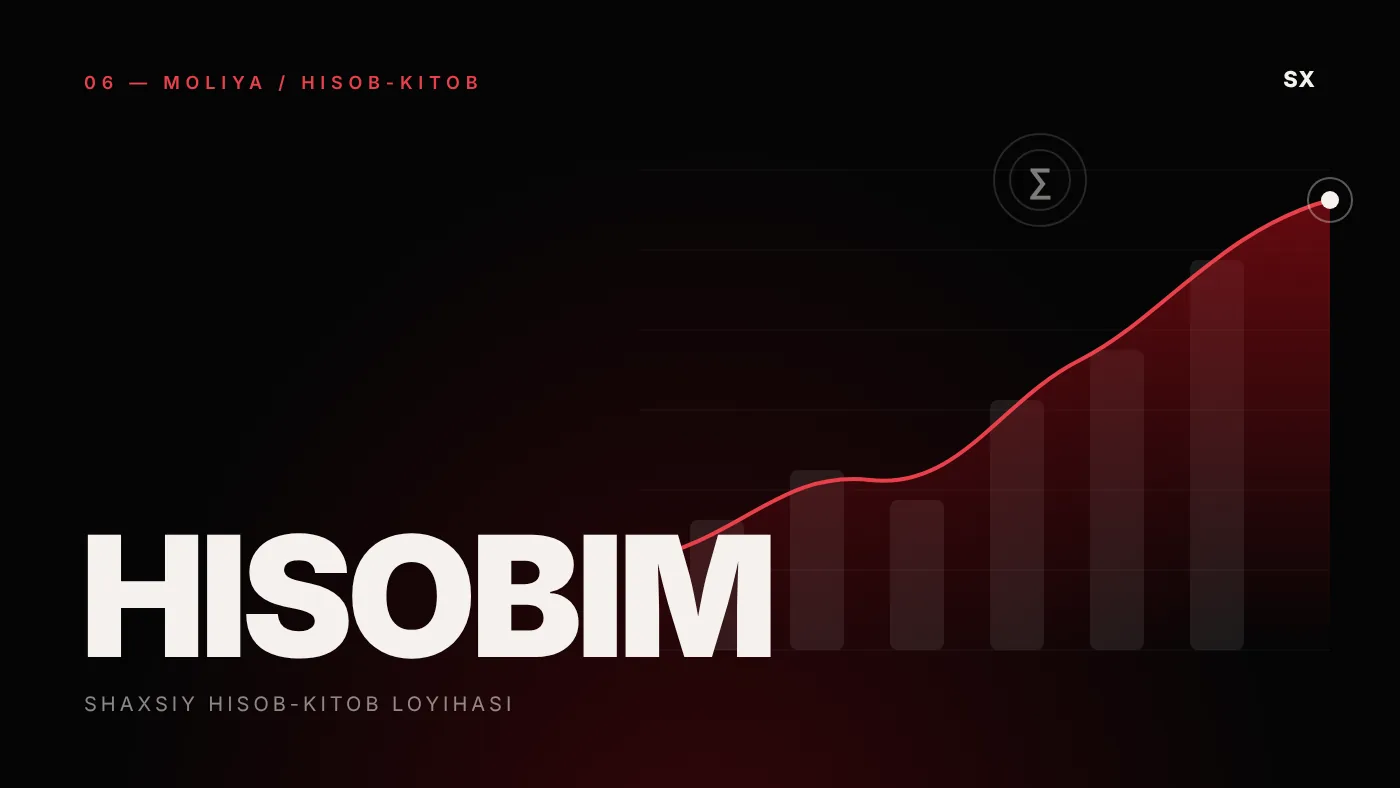
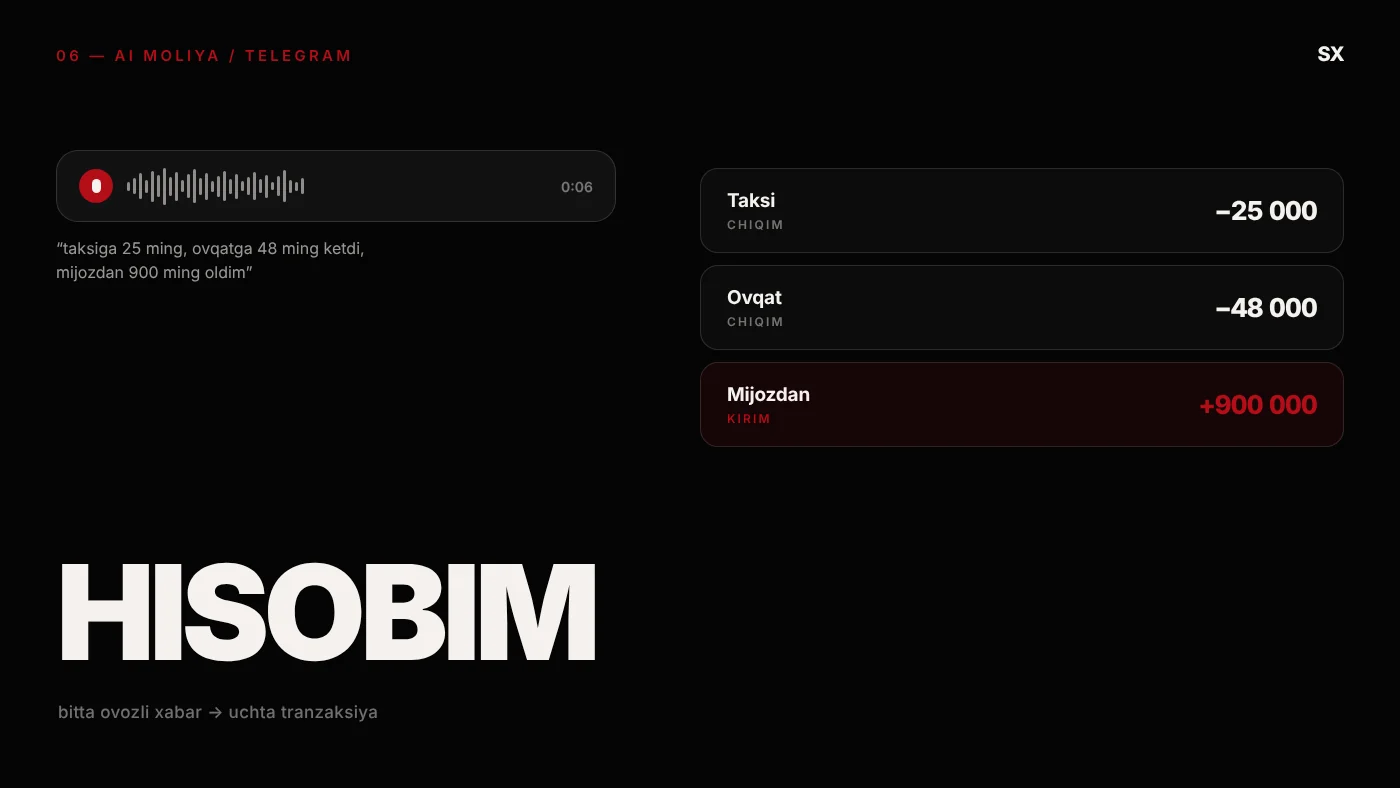
portfolio: replace HISOBIM and SAHNA STUDIO placeholders with real copy
Both entries landed as drafts written from the project names alone, with
a note that the owner still had to supply the facts. The facts were
already available: both projects have repositories.

Sourced from them instead:

- HISOBIM (xojasoipov-sketch/hisobim) is a voice-first Telegram
  accountant and Mini App, not a generic "personal accounting project".
  One Uzbek voice message splits into several transactions; the AI only
  structures the sentence while the backend and PostgreSQL do every sum,
  so UZS and USD never mix. Debts, natural-language corrections, an
  audit log, a PWA dashboard and the central bank rate. Bot handle added.

- SAHNA STUDIO (xojasoipov-sketch/Sahna-Chrome, manifest name "Sahna
  Studio - Flow Batch Assistant") is a Chrome MV3 side panel that runs a
  prompt queue against Google Flow -- not a creative studio. XLSX import,
  pause/resume, automatic retry of scenes that did not render, voice
  control, and the user's own OpenAI/Gemini/OpenRouter key with no
  intermediate server.

The banners were drawn from those same wrong premises -- a stock finance
chart captioned "shaxsiy hisob-kitob loyihasi", and a theatre stage with
curtains for a name that happens to mean "stage". Redrawn so each one
shows what the product actually does, and the generator is committed
this time rather than being a one-off.

Also adds both to the bot's knowledge base (both mirrors) and the CV,
which the first pass missed, so the assistant can answer about them.
[…]

diff --git a/src/data/projects.ts b/src/data/projects.ts
@@ -126,11 +126,22 @@ export const PROJECTS: Project[] = [
     id: "hisobim",
     index: "06",
     title: "HISOBIM",
-    category: "Moliya / Hisob-kitob",
-    summary: "Shaxsiy hisob-kitob loyihasi.",
+    category: "AI Moliya / Telegram",
+    summary:
+      "O'zbekcha ovozli xabarni tushunadigan Telegram buxgalter va Mini App.",
     detail:
-      "Hisob-kitobni tartibli yuritish uchun ishlab chiqilgan loyiha. Batafsil tavsif va texnologiyalar muallif tomonidan tasdiqlanadi.",
-    tech: [],
+      "\"Bugun taksiga 25 ming, ovqatga 48 ming ketdi, mijozdan 900 ming oldim\" — bitta ovozli xabardan uchta alohida tranzaksiya ajraladi. AI faqat gapni strukturaga soladi: balans, sof foyda va valyuta hisobini backend bilan PostgreSQL o'zi sanaydi, shuning uchun raqamda model xatosi bo'lmaydi va so'm bilan dollar aralashmaydi. Qarz berish va qaytarishni yuritadi, \"haligi benzin 85 emas, 65 ming edi\" deganda oxirgi mos yozuvni tuzatadi — har o'zgarish audit jurnaliga tushadi. Mini App va o'rnatiladigan PWA dashboard, Markaziy bank kursi, push-bildirishnoma bilan.",
+    tech: [
+      "TypeScript",
+      "Hono",
+      "grammY",
+      "Supabase PostgreSQL",
+      "React + Vite",
+      "Whisper STT",
+      "Zod",
+      "Railway",
+    ],
+    bot: "Hisobimaibot",
     shot: hisobimShot,
   },
   {
@@ -138,11 +149,19 @@ export const PROJECTS: Project[] = [
     index: "07",
     title: "SAHNA",
     titleAlt: "STUDIO",
-    category: "Studio / Kreativ loyiha",
-    summary: "Sahna va vizual kontent yaratish uchun studiya loyihasi.",
+    category: "Chrome kengaytma / AI video",
+    summary:
+      "Google Flow uchun yon panel — sahnalar bittalab emas, navbat bilan ketadi.",
     detail:
-      "Studiya loyihasi sifatida ishlab chiqilgan. Batafsil tavsif, texnologiyalar va havola muallif tomonidan tasdiqlanadi.",
-    tech: [],
+      "Flow'da har bir promptni qo'lda yuborib o'tirish o'rniga, ularni ro'yxatga yig'asiz yoki XLSX'dan import qilasiz va navbatni qo'yib yuborasiz: to'xtatish, davom ettirish, chiqmagan sahnani avtomatik qayta yuborish bor. Yonida prompt ustaxonasi, media galereya, tezkor montaj va ovoz bilan boshqaruv. AI uchun o'zingizning OpenAI, Gemini yoki OpenRouter kalitingiz ulanadi — promptlar qurilmada qoladi, oraliq server yo'q.",
+    tech: [
+      "Chrome MV3",
+      "Side Panel API",
+      "JavaScript",
+      "Service Worker",
+      "Web Speech API",
+      "SheetJS",
+    ],
     shot: sahnaStudioShot,
   },
 ];

diff --git a/bot/src/ai/knowledgeData.ts b/bot/src/ai/knowledgeData.ts
@@ -59,6 +59,22 @@ export const PROJECTS = [
     detail: "Katalog, qidiruv, narx oralig'i va saralash filtrlari; JWT autentifikatsiya, ko'p tilli interfeys va admin dashboard.",
     tech: ["React", "FastAPI", "MongoDB", "Telegram Mini App", "JWT", "i18n"],
   },
+  {
+    key: "hisobim",
+    title: "Hisobim",
+    category: "AI Moliya / Telegram",
+    summary: "O'zbekcha ovozli xabarni tushunadigan Telegram buxgalter va Mini App.",
+    detail: "Bitta ovozli xabardan bir nechta tranzaksiya ajraladi. AI faqat gapni strukturaga soladi; balans, sof foyda va valyuta hisobini backend bilan PostgreSQL deterministik sanaydi, so'm bilan dollar aralashmaydi. Qarz berish-qaytarish, tabiiy tilda tuzatish va audit jurnali bor. Mini App va PWA dashboard, Markaziy bank kursi, push-bildirishnoma. Bot: @Hisobimaibot",
+    tech: ["TypeScript", "Hono", "grammY", "Supabase PostgreSQL", "React", "Whisper STT", "Railway"],
+  },
+  {
+    key: "sahna-studio",
+    title: "Sahna Studio",
+    category: "Chrome kengaytma / AI video",
+    summary: "Google Flow uchun yon panel — sahnalar navbat bilan yaratiladi.",
+    detail: "Promptlarni ro'yxatga yig'ib yoki XLSX'dan import qilib navbatga qo'yadi: to'xtatish, davom ettirish, chiqmagan sahnani avtomatik qayta yuborish. Prompt ustaxonasi, media galereya, tezkor montaj va ovoz bilan boshqaruv. AI uchun foydalanuvchining o'z OpenAI, Gemini yoki OpenRouter kaliti ulanadi; promptlar qurilmada qoladi, oraliq server yo'q.",
+    tech: ["Chrome MV3", "Side Panel API", "JavaScript", "Service Worker", "Web Speech API", "SheetJS"],
+  },
 ] as const;
 
 export const CONTACT = {

diff --git a/supabase/functions/xojasoipov-bot/ai/knowledgeData.ts b/supabase/functions/xojasoipov-bot/ai/knowledgeData.ts
@@ -59,6 +59,22 @@ export const PROJECTS = [
     detail: "Katalog, qidiruv, narx oralig'i va saralash filtrlari; JWT autentifikatsiya, ko'p tilli interfeys va admin dashboard.",
     tech: ["React", "FastAPI", "MongoDB", "Telegram Mini App", "JWT", "i18n"],
   },
+  {
+    key: "hisobim",
+    title: "Hisobim",
+    category: "AI Moliya / Telegram",
+    summary: "O'zbekcha ovozli xabarni tushunadigan Telegram buxgalter va Mini App.",
+    detail: "Bitta ovozli xabardan bir nechta tranzaksiya ajraladi. AI faqat gapni strukturaga soladi; balans, sof foyda va valyuta hisobini backend bilan PostgreSQL deterministik sanaydi, so'm bilan dollar aralashmaydi. Qarz berish-qaytarish, tabiiy tilda tuzatish va audit jurnali bor. Mini App va PWA dashboard, Markaziy bank kursi, push-bildirishnoma. Bot: @Hisobimaibot",
+    tech: ["TypeScript", "Hono", "grammY", "Supabase PostgreSQL", "React", "Whisper STT", "Railway"],
+  },
+  {
+    key: "sahna-studio",
+    title: "Sahna Studio",
+    category: "Chrome kengaytma / AI video",
+    summary: "Google Flow uchun yon panel — sahnalar navbat bilan yaratiladi.",
+    detail: "Promptlarni ro'yxatga yig'ib yoki XLSX'dan import qilib navbatga qo'yadi: to'xtatish, davom ettirish, chiqmagan sahnani avtomatik qayta yuborish. Prompt ustaxonasi, media galereya, tezkor montaj va ovoz bilan boshqaruv. AI uchun foydalanuvchining o'z OpenAI, Gemini yoki OpenRouter kaliti ulanadi; promptlar qurilmada qoladi, oraliq server yo'q.",
+    tech: ["Chrome MV3", "Side Panel API", "JavaScript", "Service Worker", "Web Speech API", "SheetJS"],
+  },
 ] as const;
 
 export const CONTACT = {

diff --git a/src/data/cv.ts b/src/data/cv.ts
@@ -127,6 +127,35 @@ export const CV_PROJECTS: CvProject[] = [
     // portfolio's work section instead.
     link: "portfolio saytidagi jonli demo",
   },
+  {
+    title: "Hisobim",
+    category: "AI Moliya / Telegram",
+    summary:
+      "O'zbekcha ovozli xabardan tranzaksiyalarni ajratib oluvchi Telegram buxgalter va Mini App. AI faqat gapni strukturaga soladi; balans, foyda va valyuta hisobini backend bilan PostgreSQL deterministik sanaydi. Qarzlar, tabiiy tilda tuzatish va audit jurnali bilan.",
+    tech: [
+      "TypeScript",
+      "Hono",
+      "grammY",
+      "Supabase PostgreSQL",
+      "React",
+      "Whisper STT",
+    ],
+    link: "t.me/Hisobimaibot",
+  },
+  {
+    title: "Sahna Studio",
+    category: "Chrome kengaytma / AI video",
+    summary:
+      "Google Flow uchun yon panel: promptlarni navbatga qo'yib ishlatish, XLSX'dan import, chiqmagan sahnani avtomatik qayta yuborish, prompt ustaxonasi va ovoz bilan boshqaruv. Kalit va promptlar foydalanuvchi qurilmasida qoladi.",
+    tech: [
+      "Chrome MV3",
+      "Side Panel API",
+      "JavaScript",
+      "Service Worker",
+      "Web Speech API",
+    ],
+    // Not on the Chrome Web Store yet, so there is no address to print.
+  },
 ];
 
 export interface CvSkillGroup {
